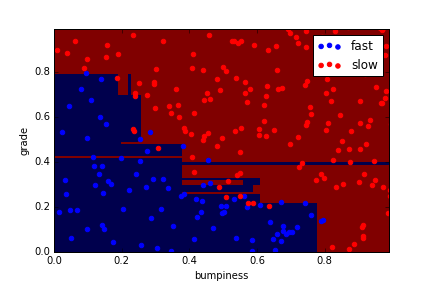
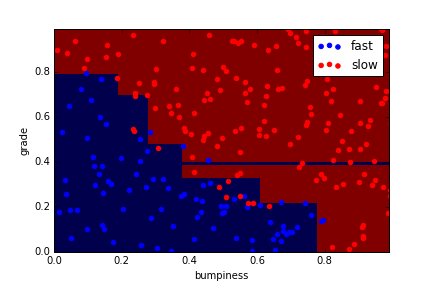
tinker with min_samples_split

diff --git a/quizzes/decision_tree/classifyDT.py b/quizzes/decision_tree/classifyDT.py
@@ -3,7 +3,7 @@ def classify(features_train, labels_train):
     ### your code goes here--should return a trained decision tree classifer
     from sklearn import tree
     
-    clf = tree.DecisionTreeClassifier()
+    clf = tree.DecisionTreeClassifier(min_samples_split=50)
     clf.fit(features_train, labels_train)
     
     
